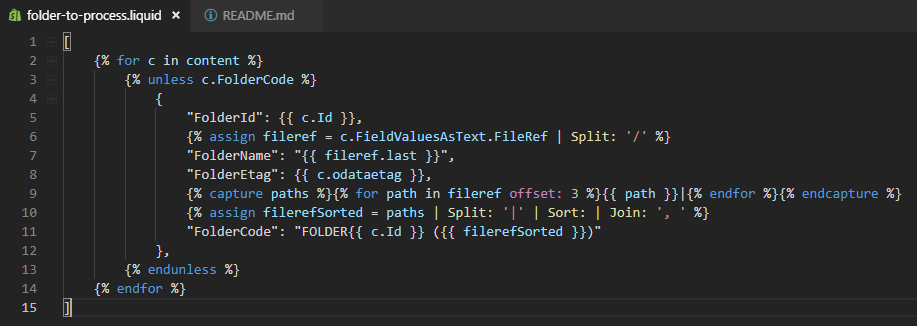
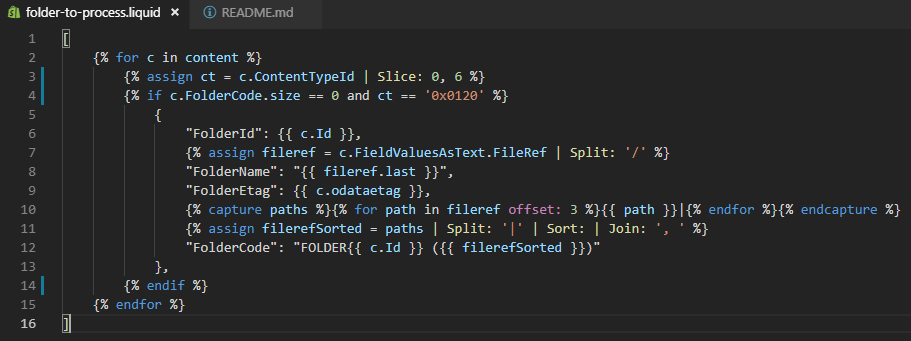
Updated documentation.

diff --git a/README.md b/README.md
@@ -1,154 +1,256 @@
+
 # logicapp-sharepoint-batch
+
 This sample explore a way to use some SharePoint and Logic App features combined for background jobs.
+
 ## Introduction
+
 Sometime, we need to run some background processes or Jobs to execute some tasks on SharePoint content. Regarding the data, we quickly face 2 main challenges : Limits and Performances.
+
+  
 
 Back in the day, we liked to use some local or cloud scripting like PowerShell, Azure WebJobs or Azure Function and we had to handle these different aspects of limits and performances.
 
+  
+
 Logic App offers a great alternative to these approaches because we can leverage some very useful features for this kind of scenario:
 
- - Its connectors facilitate the use of different API 
- - We can control and it takes care of the reliability (i.e: by using Retry-Policy)
- - We can control errors handling
- - We can monitor and alert
- - We 'only' focus on the control flow and messaging between services
+  
+
+- Its connectors facilitate the use of different API
+
+- We can control and it takes care of the reliability (i.e: by using Retry-Policy, Timeout)
+
+- We can control errors handling
+
+- We can monitor and alert
+
+- We 'only' focus on the control flow and messaging between services
+
+  
 
 On the other hand,
 
- - it's a new environment that impose a new way of thinking (at least for me ^^) and transposing some concepts like fetching big content or batching operations could be burdensome.
- - We don't necessary have the same control on data operations and transformations compared to a pure scripting approach (i.e: the platform could be hard to extend, we can only use the set of predefined function, cannot easily manipulate the concept of local variables, etc...etc...)
+  
+
+- it's a new environment that impose a new way of thinking (at least for me ^^) and transposing some concepts like fetching big content or batching operations could be burdensome.
+
+- We don't necessary have the same control on data operations and transformations compared to a pure scripting approach (i.e: the platform could be hard to extend, we can only use the set of predefined function, cannot easily manipulate the concept of local variables, etc...etc...)
+
+  
 
 This sample show a way to implement fetching over 5000 items (by overcoming the SharePoint REST limit of 5000 items max by response), applying some transformation and business logic using Liquid when Logic App OOTB actions are too limited, and batching operation back to SharePoint using the `_api/$batch` endpoint of SharePoint.
+
 ## The Scenario
+
 For this sample, let's create a simple scenario where we have a document library named *LogicAppSharePointBatch* with a custom string column named *FolderCode*.
+
+  
 
 ![https://github.com/piou13/logicapp-sharepoint-batch/blob/master/docs/list1.PNG](https://github.com/piou13/logicapp-sharepoint-batch/blob/master/docs/list1.PNG)
 
-We need to get all folders from a documents library  and apply them a 'custom code' using a little 'dummy' pattern.
+  
+
+We need to get all folders from a documents library and apply them a 'custom code' using a little 'dummy' pattern.
+
 We want the *FolderCode* to be:
 
-**FOLDER**`[FolderId]` **(**`[folder_path_values_sorted_alphabetically]`**)**
+  
+
+**FOLDER**`[FolderId]`  **(**`[folder_path_values_sorted_alphabetically]`**)**
+
 i.e: for a folder called "foo" with ID 4 located inside a folder "toto" at the library root, we have the following code: "FOLDER4 (foo, toto)".
+
 I know, it's a stupid pattern, but it's just for demo purpose ^^
+
+  
 
 So, after the job, we expect any *FolderCode* to be updated with this pattern.
 
+  
+
 ![https://github.com/piou13/logicapp-sharepoint-batch/blob/master/docs/list2.PNG](https://github.com/piou13/logicapp-sharepoint-batch/blob/master/docs/list2.PNG)
 
+  
+
 ## The SharePoint List
+
 For our test, we inject more than 5000 folders to make sure we hit the list threshold, but, more important, to make sure the REST request for all folders does not content 'all folders' but the 5000 first ones.
+
 These folders doesn't have to be at the root. We can have a folder structure.
+
 Here's my situation:
+
+  
 
 ![https://github.com/piou13/logicapp-sharepoint-batch/blob/master/docs/list3.PNG](https://github.com/piou13/logicapp-sharepoint-batch/blob/master/docs/list3.PNG)
 
+  
+
 ## The Logic App
+
 The process is divided into four main steps:
 
- 1. Fetching the Documents Library Folder's items to get all of them.
- 2. Checking Items for transformation logic in order to prepare to batch update items.
- 3. If items that need to be updated are detected, then batch-process these items.
- 4. Generate and send the batch report to a recipient (could be something else, like leveraging Azure Alert).
+  
 
-> I won't go through all the Logic App structure. I just highlight the
-> important point I had to tackle.
+1. Fetching the Documents Library Folder's items to get all of them.
+
+2. Checking Items for transformation logic in order to prepare to batch update items.
+
+3. If items that need to be updated are detected, then batch-process these items.
+
+4. Generate and send the batch report to a recipient (could be something else, like leveraging Azure Alert).
+
+  
+
+> I won't go through all the Logic App structure. I just highlight the important points I had to tackle.
+
+  
 
 A good starting point to deal with different aspect of SharePoint REST API is here: [https://docs.microsoft.com/en-us/sharepoint/dev/sp-add-ins/get-to-know-the-sharepoint-rest-service](https://docs.microsoft.com/en-us/sharepoint/dev/sp-add-ins/get-to-know-the-sharepoint-rest-service)
 
+  
+
 **Error Handling**
+
+  
 
 I like to use scopes to organize the process sequences because everything is explained here ;) : [https://docs.microsoft.com/en-us/azure/logic-apps/logic-apps-control-flow-run-steps-group-scopes](https://docs.microsoft.com/en-us/azure/logic-apps/logic-apps-control-flow-run-steps-group-scopes)
 
+  
+
 My Logic App overall structure with error handling looks like this:
+
+  
 
 ![https://github.com/piou13/logicapp-sharepoint-batch/blob/master/docs/list4.PNG](https://github.com/piou13/logicapp-sharepoint-batch/blob/master/docs/list4.PNG)
 
+  
+
 As you can see, each logical decomposition represented by a scope has a parallel branch to manage error that occurred somewhere in the scope. Up to you to plug any custom logic to manage your errors.
+
+  
 
 **Logic App Variables**
 
 To help you to understand the data manipulation inside the flow, here is the explanation for every variable we use in the Logic App:
 
- - *SiteAbsoluteUrl*: 
- Stores the site collection absolution URL. You don't really need this one because you can pass this information using a better way, but once again, it's for demo purpose.
- - *ListName*:
- Stores the name of the SharePoint Documents Library. Same consideration as SiteAbsoluteUrl.
- - *ItemsArray*:
- Stores the fetched items from the list.
- - *NextLink*:
+-  *SiteAbsoluteUrl*:
+Stores the site collection absolution URL. You don't really need this one because you can pass this information using a better way, but once again, it's for demo purpose.
+
+-  *ListName*:
+Stores the name of the SharePoint Documents Library. Same consideration as SiteAbsoluteUrl.
+-  *ItemsArray*:
+Stores the fetched items from the list.
+-  *NextLink*:
 Stores if the response has a next page of results.
- - *NextLinkUrl*:
+-  *NextLinkUrl*:
 Stores the URL of the next results page if exists.
+-  *BatchBoundary*:
+Stores the batch boundary identifier.
+-  *ChangeSetBoundary*:
+Stores the changeset boundary identifier.
+ - *BatchPagesArray*:
+Array that stores calculated batch pages that need to be batched to SharePoint.
  - *BatchRequestBody*:
 Stores the content of the batch request body for the SharePoint batch query.
- - *ChangeSetRequestBody*:
- Stores the content of the changeset request body for the SharePoint batch query.
- - *BatchBoundary*:
- Stores the batch boundary identifier.
- - *ChangeSetBoundary*:
- Stores the changeset boundary identifier.
- - *BatchResponse*:
- Stores the SharePoint batch response.
- - *FoldersToProcess*:
- Stores the list of folders that need to be processed.
+-  *ChangeSetRequestBody*:
+Stores the content of the changeset request body for the SharePoint batch query.
+-  *FoldersToProcess*:
+Stores the list of folders that need to be processed.
+-  *BatchResponse*:
+Stores the SharePoint batch response.
 
 **Step 1: Fetch items**
 
+  
+
 ![https://github.com/piou13/logicapp-sharepoint-batch/blob/master/docs/list5.PNG](https://github.com/piou13/logicapp-sharepoint-batch/blob/master/docs/list5.PNG)
+
+  
 
 The challenge here occurs when we have more than 5000 items in the documents library. The SharePoint REST API can returns up to 5000 items max if we specify the `$top=5000` parameter, but no more. In this case, SharePoint returns pages of response containing 5000 items. Here, the next result page can be accessed by getting the `odata.nextLink` value from the response.
 
+  
+
 So, we start with a REST query to get the information we need, something like:
 
-    _api/web/lists/getbytitle('[sp_documents_library]')/items?$top=5000&$Expand=FieldValuesAsText&$Filter=startswith(ContentTypeId, '0x0120')&$Select=Id,FolderCode,FieldValuesAsText/FileRef
+    _api/web/lists/getbytitle('[sp_documents_library]')/items?$top=5000&$Expand=FieldValuesAsText&$Select=Id,FolderCode,ContentTypeId,FieldValuesAsText/FileRef
 
-The interesting point here is inside the *IfPaged* condition. We implement a recursion while we have next page  to get all the 5000 items from the page and merge them into the *ItemsArray* array. So, once the recursion done, the ItemsArray will contain every items from the list and not only the 5000 first ones. In the next steps, we will use this array as 'datasource' to proceed.
+The interesting point here is inside the *IfPaged* condition. We implement a recursion while we have next page to get all the 5000 items from the page and merge them into the *ItemsArray* array. So, once the recursion done, the ItemsArray will contain every items from the list and not only the 5000 first ones. In the next steps, we will use this array as 'datasource' to proceed.
 
 But the transformation step, we need to convert this ItemsArray to a JSON object because we need to provide to Liquid a JSON object he is able to understand.
 
-The only tricky point I had here was to replace any attribute using a dot (.) in their names (i.e: metadata like `odataid`, `odata.etag`, ...) because it's like Liquid doesn't manage attribute with dots. So I take the original JSON provided by *ItemArray* and I replace any "odata." string by "odata". This is why we have an additional *FixedItemsJson* action.
+The only tricky point I had here was to replace any attribute using a dot (.) in their names (i.e: metadata like `odata.id`, `odata.etag`, ...) because it's like Liquid doesn't manage attribute with dots. So I take the original JSON provided by *ItemArray* and I replace any "`odata.`" string by "`odata`". This is why we have an additional *FixedItemsJson* action.
 
 **Step 2: Check items**
 
+  
+
 ![https://github.com/piou13/logicapp-sharepoint-batch/blob/master/docs/list6.PNG](https://github.com/piou13/logicapp-sharepoint-batch/blob/master/docs/list6.PNG)
 
+  
+
 In this step, we want to check all the items to filter and transform according to our rules.
-First, we want to keep only those that don't have a *FolderCode* defined.
+
+First, we want to keep only folders and those that don't have a *FolderCode* defined.
+
 Then, we want to transform some information to generate the *FolderCode*.
+
 Finally, we want to send back the result in a way that can be easily used by the following steps in Logic App.
 
 Here, to get to the goal, Logic App's built-in actions like 'Select' are too limited for our need, and it's very hard to implement any custom logic using them. Also, we can use intensively Logic App's built-in loops like For-each or Until, but they are slow and very challenging when they are used in conjunction with variables. For the good and the bad about that, see: [https://docs.microsoft.com/en-us/azure/logic-apps/logic-apps-control-flow-loops](https://docs.microsoft.com/en-us/azure/logic-apps/logic-apps-control-flow-loops) and [https://docs.microsoft.com/en-us/azure/logic-apps/logic-apps-create-variables-store-values](https://docs.microsoft.com/en-us/azure/logic-apps/logic-apps-create-variables-store-values)
 
 This is why I decided to investigate on Liquid because I heard it was a kind of transformation engine for JSON like XSLT could be for XSL. Sounds interesting!
 
-More information about Liquid later but my objective here is to start from the JSON containing my items (*FixedItemsJson*), only keep the ones with no FolderCode defined and make transformations to return the following JSON object as output:
+More information about Liquid later but my objective here is to start from the JSON containing my items (*FixedItemsJson*), only keep folders with no FolderCode defined and make transformations to return the following JSON object as output:
 
-    {
-      "FolderCode": "[item_folder_(wonderful)_code_pattern]",
-      "FolderEtag": [item_folder_etag],
-      "FolderId": [item_id],
-      "FolderName": "[folder_name]"
+    {    
+	    "FolderCode": "[item_folder_(wonderful)_code_pattern]",
+	    "FolderEtag": [item_folder_etag],    
+	    "FolderId": [item_id],    
+	    "FolderName": "[folder_name]"    
     }
 
 Let's call this object a "FolderToProcessObject".
+
 In order to do that, I defined and stored a Liquid template to manage these operations. Then, I consume it from the Liquid action "Transform JSON to JSON".
 
-For each item sent back by Liquid, I create the related "FolderToProcessObject" object and append it to my *FolderToProcess* array variable.
-
-![https://github.com/piou13/logicapp-sharepoint-batch/blob/master/docs/list7.PNG](https://github.com/piou13/logicapp-sharepoint-batch/blob/master/docs/list7.PNG)
+For each item sent back by Liquid, I create the related "FolderToProcessObject" object and assign the results to my *FolderToProcess* array variable.
 
 **Step 3: Batch update SharePoint items**
 
 For sure, this step is only needed if we have folders to proceed.
-So first, we check the length of the *FolderToProcess* array variable to make sure it has content.
+So first, we check the length of the *FolderToProcess* array variable to make sure it has content.  
 
-The next actions before the batch request are made to dynamically build the REST request. I won't go over how to make batch request to SharePoint, good information can be find here: [https://docs.microsoft.com/en-us/sharepoint/dev/sp-add-ins/make-batch-requests-with-the-rest-apis](https://docs.microsoft.com/en-us/sharepoint/dev/sp-add-ins/make-batch-requests-with-the-rest-apis), but the challenge here was to format correctly the HTTP request sent to the SharePoint $batch endpoint...To make it short:
+Then, as we want to deal with high volume data, we need to be aware about some SharePoint Batching limits. The 2 important to know here are:
+
+ - In a Batch, a ChangeSet cannot contains more than 1000 requests.
+ - The total size in bytes of the Batch stream cannot exceed 1048576.
+
+To overcome these constrains, i decided to page batches. So, for each page of 1000 requests, I send a batch query to SharePoint for this page (for example, if I need to parse 2513 folders, I gonna have 3 batch pages requests: 2 of 1000 queries and one of 513 queries).
+
+The paging logic is contained all along within the *UpdateFolders* scope. This is how we can decompose this sequence at high level:
+
+[list14]
+
+*SetBatchPagesArray*: Calculate the array used for paging, one array element for one page.
+
+[list13]
+
+*ProcessBatchPages*: For each batch page, get folders info contained in the batch page, build the batch HTTP request dynamically and send the batch request to SharePoint. Once the request executed, parse results to prepare the response message.
+
+! important: This step must run sequentially, one page after the other, to avoid unexpected results because we use nested foreach and variables assignments. The nested foreach can run in parallel.
+
+[list15]
+
+I won't go over how to make batch request to SharePoint, good information can be find here: [https://docs.microsoft.com/en-us/sharepoint/dev/sp-add-ins/make-batch-requests-with-the-rest-apis](https://docs.microsoft.com/en-us/sharepoint/dev/sp-add-ins/make-batch-requests-with-the-rest-apis), but the challenge here was to format correctly the HTTP request sent to the SharePoint $batch endpoint...To make it short:
 
 The good news:
 We don't care about authentication! No need to manage an access token or other X-RequestDigest stuff... All is managed by the SharePoint connector. :).
 
 The tricky:
-It took me a while before handling the way Logic App manages newlines and the HTTP request requirements... I mean, in Logic App  .. 1 line + 2 lines ...
+It took me a while before handling the way Logic App manages newlines and the HTTP request requirements... I mean, in Logic App .. 1 line + 2 lines ...
 
 i.e: Just to illustrate my point on one action,
 
@@ -162,7 +264,9 @@ To actually execute the batch request, we use the so useful SharePoint action "S
 
 ![https://github.com/piou13/logicapp-sharepoint-batch/blob/master/docs/list9.PNG](https://github.com/piou13/logicapp-sharepoint-batch/blob/master/docs/list9.PNG)
 
-The final step of this sequence is to receive and format the batch response and append it to our *BatchResponse* array variable.
+To get to the next batch page, don't forget to unstack the FoldersToProcess array (action *SetFoldersToProcessArray*).
+
+The final step of this sequence is to receive and format the batch response and append it to our *BatchResponse* array variable. 
 
 ![https://github.com/piou13/logicapp-sharepoint-batch/blob/master/docs/list10.PNG](https://github.com/piou13/logicapp-sharepoint-batch/blob/master/docs/list10.PNG)
 
@@ -173,11 +277,12 @@ Entirely optional, this step gather information from the *BatchResponse* array a
 ![https://github.com/piou13/logicapp-sharepoint-batch/blob/master/docs/list11.PNG](https://github.com/piou13/logicapp-sharepoint-batch/blob/master/docs/list11.PNG)
 
 ## The Liquid Connector
+
 **Prerequisites**
 
 To use the Liquid connector, we need a basic Azure Integration Account to consume from our Logic App. More info here: [https://docs.microsoft.com/en-us/azure/logic-apps/logic-apps-enterprise-integration-create-integration-account](https://docs.microsoft.com/en-us/azure/logic-apps/logic-apps-enterprise-integration-create-integration-account)
 
-Also,  we need a bit of understanding about Liquid's syntax and the way it works. 2 resources are useful for that: from Microsoft ([https://docs.microsoft.com/en-us/azure/logic-apps/logic-apps-enterprise-integration-liquid-transform](https://docs.microsoft.com/en-us/azure/logic-apps/logic-apps-enterprise-integration-liquid-transform)) and from the Liquid official editor ([https://shopify.github.io/liquid/](https://shopify.github.io/liquid/)).
+Also, we need a bit of understanding about Liquid's syntax and the way it works. 2 resources are useful for that: from Microsoft ([https://docs.microsoft.com/en-us/azure/logic-apps/logic-apps-enterprise-integration-liquid-transform](https://docs.microsoft.com/en-us/azure/logic-apps/logic-apps-enterprise-integration-liquid-transform)) and from the Liquid official editor ([https://shopify.github.io/liquid/](https://shopify.github.io/liquid/)).
 
 **The Liquid Template**
 
@@ -185,16 +290,18 @@ If you have read the Liquid documentation on Azure, you know that your Liquid te
 
 ![https://github.com/piou13/logicapp-sharepoint-batch/blob/master/docs/list12.PNG](https://github.com/piou13/logicapp-sharepoint-batch/blob/master/docs/list12.PNG)
 
-`content` : it's the representation of our provided JSON.
+`content` : it's the representation of our provided JSON. 
 
 `{% for c in content %}` : Parse all our items.
 
-`{% unless  c.FolderCode %}` : Keep only item with no FolderCode.
+`{% if  c.FolderCode.size == 0 and ct == '0x0120' %}` : Keep only folders with no FolderCode.
 
-`{% assign  fileref = c.FieldValuesAsText.FileRef  | Split: '/' %}` : Create an array to get all the path to the item.
+`{% assign fileref = c.FieldValuesAsText.FileRef | Split: '/' %}` : Create an array to get all the path to the item.
 
-`{% capture  paths %}{% for  path in fileref  offset: 3 %}{{ path }}|{% endfor %}{% endcapture %}` and `{% assign  filerefSorted = paths  | Split: '|'  | Sort: | Join: ', ' %}` : Get rid of the three first index (because from the *FileRef* path, [0] represent "sites" (the managed path), the [1] [site_name] and the [2] [library_name] and return a sorted array with the remaining values we convert to a string joined by `', '`.
+`{% capture paths %}{% for path in fileref offset: 3 %}{{ path }}|{% endfor %}{% endcapture %}` and `{% assign filerefSorted = paths | Split: '|' | Sort: | Join: ', ' %}` : Get rid of the three first index (because from the *FileRef* path, [0] represent "sites" (the managed path), the [1]  [site_name] and the [2]  [library_name] and return a sorted array with the remaining values we convert to a string joined by `', '`.
 
 `"FolderCode": "FOLDER{{ c.Id }} ({{ filerefSorted }})"` : We generate our FolderCode.
+
 ## Install the sample
+
 todo
